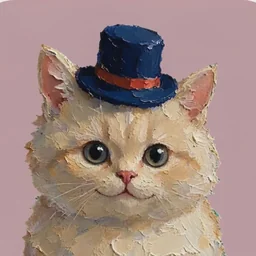
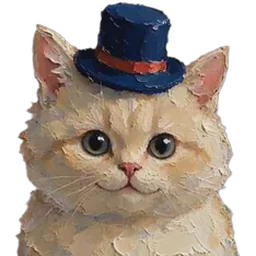
feat: 情绪打卡9张油画猫图去背景(透明webp),猫铺满图标,缓存v2

diff --git a/deploy-site/index.html b/deploy-site/index.html
@@ -909,7 +909,7 @@ const CAT_MOOD_PARTS={
 };
 const MOOD_FACE_IMG={'😄':'mood-e-happy','🔥':'mood-e-full','🙂':'mood-e-calm','😐':'mood-e-neutral','😴':'mood-e-tired','😔':'mood-e-sad','😣':'mood-e-anxious','😠':'mood-e-angry'};
 const catMoodFace=e=>MOOD_FACE_IMG[e]
-  ?'<img src="cat-images/'+MOOD_FACE_IMG[e]+'.webp?v=1" alt="'+e+'" title="'+e+'" style="width:1em;height:1em;border-radius:.28em;object-fit:cover;display:inline-block;vertical-align:-.15em">'
+  ?'<img src="cat-images/'+MOOD_FACE_IMG[e]+'.webp?v=2" alt="'+e+'" title="'+e+'" style="width:1em;height:1em;border-radius:.28em;object-fit:cover;display:inline-block;vertical-align:-.15em">'
   :esc(e);
 const MODULES=[
   {id:'home',name:'综合首页',icon:'🏠',color:'var(--c1)',sub:'总览 · 快捷工具 · 一日总结'},
@@ -927,7 +927,7 @@ const MODULES=[
   {id:'mood',name:'情绪打卡',icon:MOOD_ICON_SVG,color:'var(--c4)',sub:'心情记录 · 趋势 · 分布'},
 ];
 const DEFAULT_ORDER=MODULES.map(m=>m.id);
-const MOOD_ICON_IMG='<img src="cat-images/mood-icon.webp?v=1" alt="情绪打卡" style="width:1em;height:1em;border-radius:.32em;object-fit:cover;display:inline-block;vertical-align:-.12em">';
+const MOOD_ICON_IMG='<img src="cat-images/mood-icon.webp?v=2" alt="情绪打卡" style="width:1em;height:1em;border-radius:.32em;object-fit:cover;display:inline-block;vertical-align:-.12em">';
 const NAV_ICONS={home:'🏠',schedule:'📋',inspire:'💡',english:'🗣',diet:'🥗',fitness:'🏃',news:'📰',books:'📚',finance:'💰',friends:'🎂',treehole:'🕳',focus:'🍅',mood:MOOD_ICON_IMG};
 
 function loadNavOrder(){
@@ -1987,7 +1987,7 @@ function renderMood(){
   let chosen=null;
   const todayEntry=()=>(DATA.moodlog||[]).find(m=>m.date===todayStr());
   c.innerHTML=`
-  <div class="mod-head"><div class="mi" style="padding:0;overflow:hidden"><img src="cat-images/mood-icon.webp?v=1" alt="情绪打卡" style="width:46px;height:46px;border-radius:14px;object-fit:cover;display:block"></div><div><h2>情绪打卡</h2><p>记录今日心情 · 趋势 · 分布</p></div></div>
+  <div class="mod-head"><div class="mi" style="padding:0;overflow:hidden"><img src="cat-images/mood-icon.webp?v=2" alt="情绪打卡" style="width:46px;height:46px;border-radius:14px;object-fit:cover;display:block"></div><div><h2>情绪打卡</h2><p>记录今日心情 · 趋势 · 分布</p></div></div>
   <div class="card">
     <div class="muted" style="font-size:12px;margin-bottom:6px">选择今天的心情（每天一条，可修改）</div>
     <div id="moodEmojis" style="display:flex;flex-wrap:wrap;gap:8px;margin-bottom:10px"></div>

diff --git a/life-workspace.html b/life-workspace.html
@@ -909,7 +909,7 @@ const CAT_MOOD_PARTS={
 };
 const MOOD_FACE_IMG={'😄':'mood-e-happy','🔥':'mood-e-full','🙂':'mood-e-calm','😐':'mood-e-neutral','😴':'mood-e-tired','😔':'mood-e-sad','😣':'mood-e-anxious','😠':'mood-e-angry'};
 const catMoodFace=e=>MOOD_FACE_IMG[e]
-  ?'<img src="cat-images/'+MOOD_FACE_IMG[e]+'.webp?v=1" alt="'+e+'" title="'+e+'" style="width:1em;height:1em;border-radius:.28em;object-fit:cover;display:inline-block;vertical-align:-.15em">'
+  ?'<img src="cat-images/'+MOOD_FACE_IMG[e]+'.webp?v=2" alt="'+e+'" title="'+e+'" style="width:1em;height:1em;border-radius:.28em;object-fit:cover;display:inline-block;vertical-align:-.15em">'
   :esc(e);
 const MODULES=[
   {id:'home',name:'综合首页',icon:'🏠',color:'var(--c1)',sub:'总览 · 快捷工具 · 一日总结'},
@@ -927,7 +927,7 @@ const MODULES=[
   {id:'mood',name:'情绪打卡',icon:MOOD_ICON_SVG,color:'var(--c4)',sub:'心情记录 · 趋势 · 分布'},
 ];
 const DEFAULT_ORDER=MODULES.map(m=>m.id);
-const MOOD_ICON_IMG='<img src="cat-images/mood-icon.webp?v=1" alt="情绪打卡" style="width:1em;height:1em;border-radius:.32em;object-fit:cover;display:inline-block;vertical-align:-.12em">';
+const MOOD_ICON_IMG='<img src="cat-images/mood-icon.webp?v=2" alt="情绪打卡" style="width:1em;height:1em;border-radius:.32em;object-fit:cover;display:inline-block;vertical-align:-.12em">';
 const NAV_ICONS={home:'🏠',schedule:'📋',inspire:'💡',english:'🗣',diet:'🥗',fitness:'🏃',news:'📰',books:'📚',finance:'💰',friends:'🎂',treehole:'🕳',focus:'🍅',mood:MOOD_ICON_IMG};
 
 function loadNavOrder(){
@@ -1987,7 +1987,7 @@ function renderMood(){
   let chosen=null;
   const todayEntry=()=>(DATA.moodlog||[]).find(m=>m.date===todayStr());
   c.innerHTML=`
-  <div class="mod-head"><div class="mi" style="padding:0;overflow:hidden"><img src="cat-images/mood-icon.webp?v=1" alt="情绪打卡" style="width:46px;height:46px;border-radius:14px;object-fit:cover;display:block"></div><div><h2>情绪打卡</h2><p>记录今日心情 · 趋势 · 分布</p></div></div>
+  <div class="mod-head"><div class="mi" style="padding:0;overflow:hidden"><img src="cat-images/mood-icon.webp?v=2" alt="情绪打卡" style="width:46px;height:46px;border-radius:14px;object-fit:cover;display:block"></div><div><h2>情绪打卡</h2><p>记录今日心情 · 趋势 · 分布</p></div></div>
   <div class="card">
     <div class="muted" style="font-size:12px;margin-bottom:6px">选择今天的心情（每天一条，可修改）</div>
     <div id="moodEmojis" style="display:flex;flex-wrap:wrap;gap:8px;margin-bottom:10px"></div>
